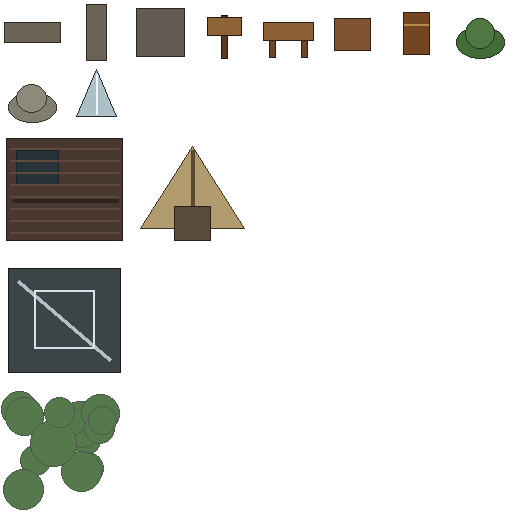
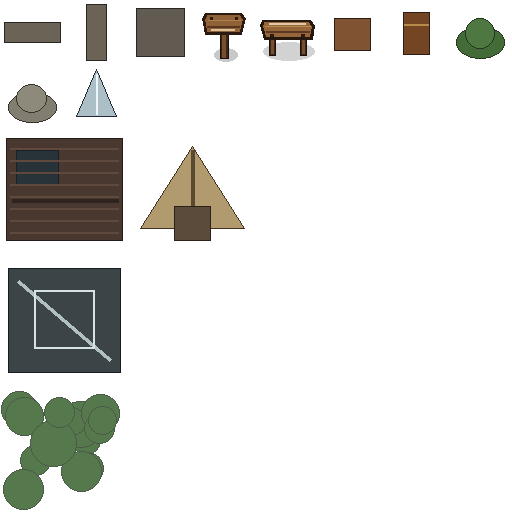
Improve generated overworld prop tiles

Changed region(s): [[0.375, 0.0, 0.625, 0.125]]

diff --git a/patches/compile_assets.py b/patches/compile_assets.py
@@ -223,12 +223,69 @@ def draw_prop_tile(draw: ImageDraw.ImageDraw, local_id: int, shape: str) -> None
     elif shape == "block":
         draw.rectangle([left + 8, top + 8, right - 8, bottom - 8], fill=rgba("#625b51"), outline=rgba("#292723"))
     elif shape == "sign":
-        draw.rectangle([left + 29, top + 15, left + 35, top + 58], fill=rgba("#5a3a22"), outline=rgba("#25170f"))
-        draw.rectangle([left + 15, top + 17, left + 49, top + 35], fill=rgba("#8d6337"), outline=rgba("#25170f"))
+        draw.ellipse([left + 22, top + 48, left + 45, top + 61], fill=rgba("#000000", 55))
+        draw.rectangle([left + 28, top + 29, left + 36, top + 58], fill=rgba("#3d2617"), outline=rgba("#1b100b"))
+        draw.rectangle([left + 30, top + 29, left + 33, top + 57], fill=rgba("#76502e"))
+        draw.polygon(
+            [
+                (left + 13, top + 13),
+                (left + 49, top + 13),
+                (left + 53, top + 18),
+                (left + 49, top + 34),
+                (left + 13, top + 34),
+                (left + 10, top + 18),
+            ],
+            fill=rgba("#2c1a10"),
+        )
+        draw.polygon(
+            [
+                (left + 15, top + 15),
+                (left + 47, top + 15),
+                (left + 50, top + 19),
+                (left + 47, top + 31),
+                (left + 15, top + 31),
+                (left + 13, top + 19),
+            ],
+            fill=rgba("#8f6136"),
+        )
+        draw.line([left + 16, top + 20, left + 48, top + 20], fill=rgba("#b38049"), width=1)
+        draw.line([left + 15, top + 26, left + 47, top + 26], fill=rgba("#59371f"), width=2)
+        draw.rectangle([left + 18, top + 17, left + 20, top + 19], fill=rgba("#2a1a10"))
+        draw.rectangle([left + 43, top + 17, left + 45, top + 19], fill=rgba("#2a1a10"))
+        draw.rectangle([left + 19, top + 29, left + 42, top + 30], fill=rgba("#c29357", 150))
     elif shape == "table":
-        draw.rectangle([left + 7, top + 22, right - 7, top + 40], fill=rgba("#8d5f34"), outline=rgba("#2c1e16"))
-        draw.rectangle([left + 13, top + 40, left + 19, top + 57], fill=rgba("#6d4528"), outline=rgba("#2c1e16"))
-        draw.rectangle([right - 19, top + 40, right - 13, top + 57], fill=rgba("#6d4528"), outline=rgba("#2c1e16"))
+        draw.ellipse([left + 7, top + 42, right - 6, top + 60], fill=rgba("#000000", 45))
+        draw.rectangle([left + 13, top + 34, left + 19, top + 55], fill=rgba("#3d2617"), outline=rgba("#1b100b"))
+        draw.rectangle([right - 20, top + 34, right - 14, top + 55], fill=rgba("#3d2617"), outline=rgba("#1b100b"))
+        draw.rectangle([left + 15, top + 34, left + 17, top + 53], fill=rgba("#76502e"))
+        draw.rectangle([right - 18, top + 34, right - 16, top + 53], fill=rgba("#76502e"))
+        draw.polygon(
+            [
+                (left + 6, top + 20),
+                (right - 10, top + 20),
+                (right - 6, top + 25),
+                (right - 8, top + 39),
+                (left + 8, top + 39),
+                (left + 4, top + 25),
+            ],
+            fill=rgba("#26170f"),
+        )
+        draw.polygon(
+            [
+                (left + 8, top + 22),
+                (right - 12, top + 22),
+                (right - 9, top + 26),
+                (right - 11, top + 36),
+                (left + 10, top + 36),
+                (left + 7, top + 26),
+            ],
+            fill=rgba("#95663a"),
+        )
+        draw.line([left + 9, top + 26, right - 10, top + 26], fill=rgba("#bd8a4e"), width=1)
+        draw.line([left + 10, top + 31, right - 11, top + 31], fill=rgba("#5c3920"), width=2)
+        draw.rectangle([left + 13, top + 23, right - 15, top + 24], fill=rgba("#c9995c", 135))
+        draw.rectangle([left + 14, top + 34, left + 17, top + 36], fill=rgba("#2a1a10"))
+        draw.rectangle([right - 19, top + 34, right - 16, top + 36], fill=rgba("#2a1a10"))
     elif shape == "crate":
         draw.rectangle([left + 14, top + 18, right - 14, top + 50], fill=rgba("#805332"), outline=rgba("#2c1e16"))
     elif shape == "barrel":

diff --git a/docs/11-print-asset-machenism/overworld_visual_rebuild.md b/docs/11-print-asset-machenism/overworld_visual_rebuild.md
@@ -63,6 +63,22 @@ If a future pass makes roads look tiled again, fix the generator first and then
 regenerate the atlas. Do not hand-paint only the committed PNG, because the next
 generator run would reintroduce the artifact.
 
+## Low Object Tiles
+
+Small tile-layer props such as the market table and signpost are generated in
+`draw_prop_tile()` in `patches/compile_assets.py`.
+
+These props should use:
+
+- A readable silhouette at 64x64.
+- A dark one-pixel outline only where it separates the prop from terrain.
+- Small cast shadows to anchor the prop to the ground.
+- Plank seams, highlights, and nail marks instead of flat rectangles.
+
+They should not carry interaction logic. If an object becomes interactive or
+needs Y-sorting against the player, move it into `data/overworld_props.json`
+and render it through `OverworldStaticProp`.
+
 ## Tiled Layer Rules
 
 Use tile layers for art that does not need individual Y-sorting:
